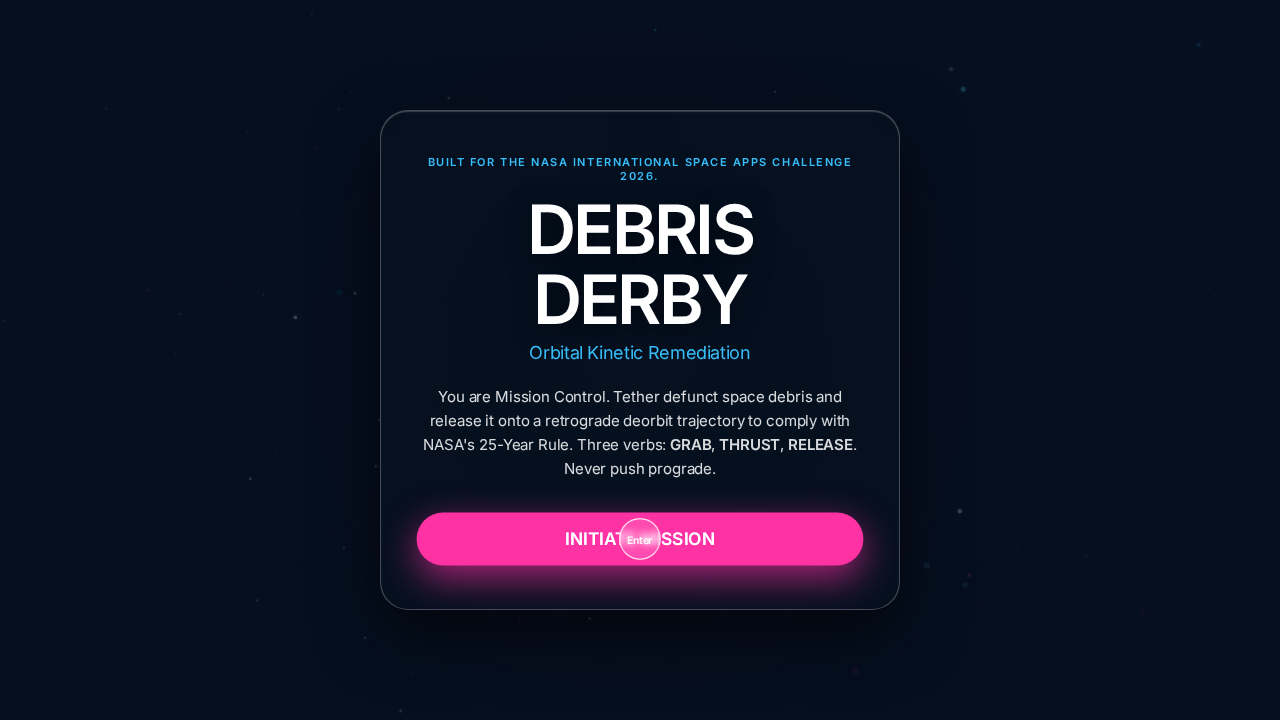
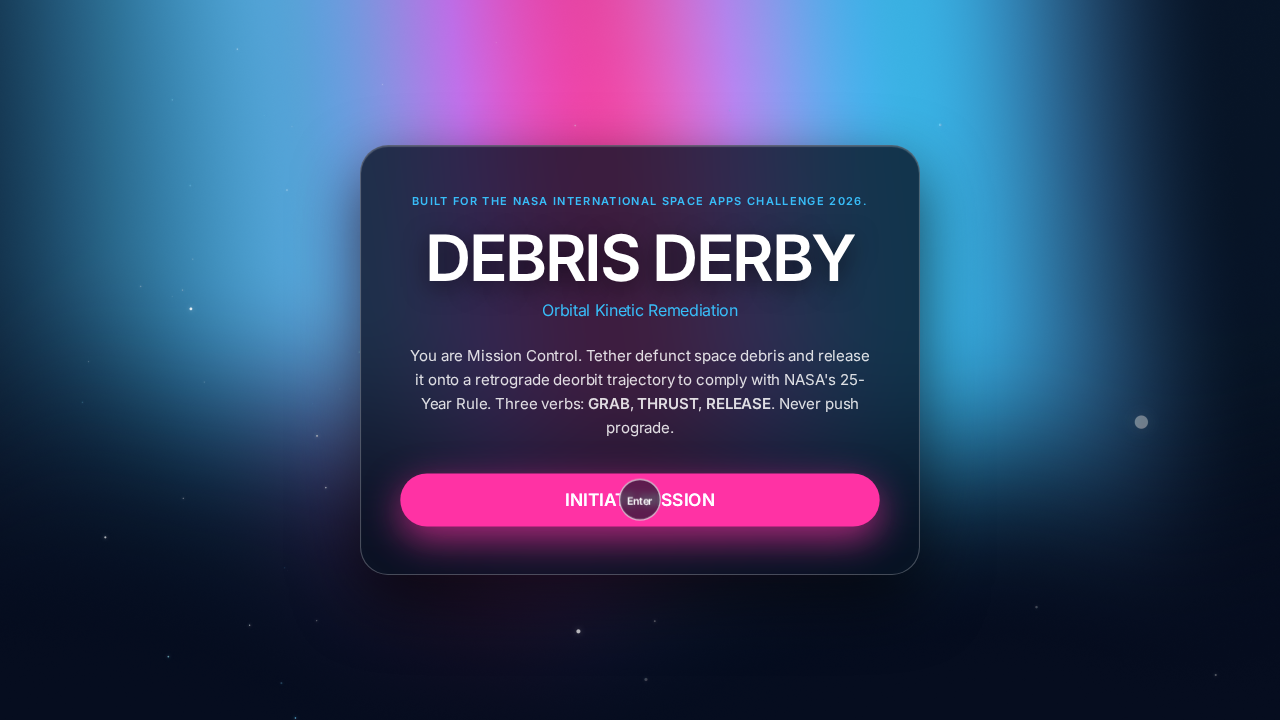
feat(ui): refine ReactBits Aurora cosmic background and Alpha Project UI alignment

diff --git a/src/components/MainMenu.jsx b/src/components/MainMenu.jsx
@@ -14,17 +14,16 @@ export default function MainMenu({ onStart, visible = true }) {
         justifyContent: 'center',
         overflow: 'hidden',
         userSelect: 'none',
-        background:
-          'radial-gradient(circle at center, rgba(6, 17, 32, 0.3) 0%, rgba(6, 17, 32, 0.75) 100%)',
+        background: 'transparent',
       }}
     >
       {/* Alpha Project Frosted Glass Panel */}
       <div
         style={{
-          width: '520px',
-          maxWidth: 'calc(100vw - 40px)',
-          padding: '44px 40px',
-          background: 'rgba(6, 17, 32, 0.82)',
+          width: '560px',
+          maxWidth: 'calc(100vw - 36px)',
+          padding: '48px 44px',
+          background: 'rgba(6, 17, 32, 0.78)',
           backdropFilter: 'blur(16px)',
           WebkitBackdropFilter: 'blur(16px)',
           border: '1px solid rgba(255, 255, 255, 0.25)',
@@ -38,16 +37,17 @@ export default function MainMenu({ onStart, visible = true }) {
           alignItems: 'center',
         }}
       >
-        {/* Challenge Eyebrow */}
+        {/* Challenge Eyebrow (Locked NASA phrasing) */}
         <div
           style={{
             fontFamily: '"Instrument Sans", "Inter", sans-serif',
             fontSize: '11px',
             fontWeight: 700,
             color: 'var(--sky, #38BDF8)',
-            letterSpacing: '0.14em',
+            letterSpacing: '0.12em',
             textTransform: 'uppercase',
-            marginBottom: '12px',
+            marginBottom: '16px',
+            whiteSpace: 'nowrap',
           }}
         >
           built for the NASA International Space Apps Challenge 2026.
@@ -57,14 +57,15 @@ export default function MainMenu({ onStart, visible = true }) {
         <h1
           style={{
             fontFamily: '"Instrument Sans", "Inter", sans-serif',
-            fontSize: 'clamp(46px, 6vw, 68px)',
+            fontSize: 'clamp(44px, 5.5vw, 64px)',
             fontWeight: 800,
             color: '#FFFFFF',
             textTransform: 'uppercase',
             letterSpacing: '-0.04em',
-            lineHeight: 1.02,
+            lineHeight: 1.05,
             margin: '0 0 8px 0',
             textShadow: '0 6px 24px rgba(0, 0, 0, 0.6)',
+            whiteSpace: 'nowrap',
           }}
         >
           DEBRIS DERBY
@@ -73,11 +74,11 @@ export default function MainMenu({ onStart, visible = true }) {
         <div
           style={{
             fontFamily: '"Instrument Sans", "Inter", sans-serif',
-            fontSize: '18px',
+            fontSize: '16px',
             fontWeight: 500,
             color: 'var(--sky, #38BDF8)',
             letterSpacing: '-0.02em',
-            marginBottom: '22px',
+            marginBottom: '24px',
           }}
         >
           Orbital Kinetic Remediation
@@ -91,7 +92,7 @@ export default function MainMenu({ onStart, visible = true }) {
             color: 'rgba(255, 255, 255, 0.85)',
             lineHeight: 1.6,
             letterSpacing: '-0.01em',
-            margin: '0 0 32px 0',
+            margin: '0 0 34px 0',
             textAlign: 'center',
           }}
         >

diff --git a/src/components/Cursor.jsx b/src/components/Cursor.jsx
@@ -27,8 +27,8 @@ export default function Cursor() {
       if (shouldHover) {
         // Alpha Project: scale ring to 1.16 and show "Enter" label
         ring.style.transform = 'translate(-50%, -50%) scale(1.16)';
-        ring.style.borderColor = 'rgba(255, 255, 255, 0.85)';
-        ring.style.backgroundColor = 'rgba(255, 255, 255, 0.12)';
+        ring.style.borderColor = 'rgba(255, 255, 255, 0.75)';
+        ring.style.backgroundColor = 'rgba(6, 17, 32, 0.65)';
         dot.style.opacity = '0';
         dot.style.transform = 'translate(-50%, -50%) scale(0.2)';
         label.style.opacity = '1';
@@ -37,7 +37,7 @@ export default function Cursor() {
         // Alpha Project: default 36x36px ring and 12x12px dot
         ring.style.transform = 'translate(-50%, -50%) scale(1)';
         ring.style.borderColor = 'rgba(255, 255, 255, 0.4)';
-        ring.style.backgroundColor = 'rgba(255, 255, 255, 0.03)';
+        ring.style.backgroundColor = 'rgba(255, 255, 255, 0.04)';
         dot.style.opacity = '1';
         dot.style.transform = 'translate(-50%, -50%) scale(1)';
         label.style.opacity = '0';
@@ -135,7 +135,7 @@ export default function Cursor() {
           height: '36px',
           borderRadius: '50%',
           border: '1px solid rgba(255, 255, 255, 0.4)',
-          backgroundColor: 'rgba(255, 255, 255, 0.03)',
+          backgroundColor: 'rgba(255, 255, 255, 0.04)',
           backdropFilter: 'blur(3px)',
           WebkitBackdropFilter: 'blur(3px)',
           transform: 'translate(-50%, -50%) scale(1)',

diff --git a/src/app.jsx b/src/app.jsx
@@ -16,6 +16,7 @@ import { initAudio } from './game/audio.js';
 import { getLevelDef, LEVEL_DEFS } from './game/levels.js';
 
 import Cursor from './components/Cursor.jsx';
+import Aurora from './components/Aurora.jsx';
 import Particles from './components/Particles.jsx';
 import MainMenu from './components/MainMenu.jsx';
 import HUD from './components/HUD.jsx';
@@ -464,12 +465,26 @@ export default function App() {
         userSelect: 'none',
       }}
     >
-      {/* ReactBits WebGL Background Component (drifting 3D celestial particle field) */}
+      {/* ReactBits WebGL Background Component (Aurora + Drifting Particles) */}
+      <Aurora
+        colorStops={['#061120', '#38BDF8', '#FF2D95', '#38BDF8', '#061120']}
+        amplitude={1.2}
+        blend={0.6}
+        speed={0.6}
+        height={0.85}
+        glow={0.8}
+        layers={2}
+        style={{ position: 'fixed', inset: 0, zIndex: 0, pointerEvents: 'none' }}
+      />
       <Particles
-        particleCount={280}
-        particleSpread={12}
+        particleCount={180}
+        particleSpread={14}
         speed={0.06}
-        particleColors={['#FFFFFF', '#38BDF8', '#7DD3FC', '#FF2D95', '#FFFFFF']}
+        particleColors={['#FFFFFF', '#7DD3FC', '#FFFFFF']}
+        alphaParticles={false}
+        particleBaseSize={70}
+        glow={0.5}
+        twinkle={0.5}
         style={{ position: 'fixed', inset: 0, zIndex: 0, pointerEvents: 'none' }}
       />
 

diff --git a/src/components/HUD.jsx b/src/components/HUD.jsx
@@ -251,11 +251,11 @@ const HUD = forwardRef(function HUD(
         </button>
       </div>
 
-      {/* Retrograde / Prograde Compass Cue */}
+      {/* Retrograde / Prograde Compass Cue placed cleanly at bottom center */}
       <div
         style={{
           position: 'fixed',
-          top: '76px',
+          bottom: '24px',
           left: '50%',
           transform: 'translateX(-50%)',
           display: 'flex',
@@ -285,8 +285,8 @@ const HUD = forwardRef(function HUD(
         ref={targetPanelRef}
         style={{
           position: 'fixed',
-          bottom: '32px',
-          left: '32px',
+          bottom: '24px',
+          left: '24px',
           width: '280px',
           padding: '18px 22px',
           background: 'rgba(6, 17, 32, 0.82)',
